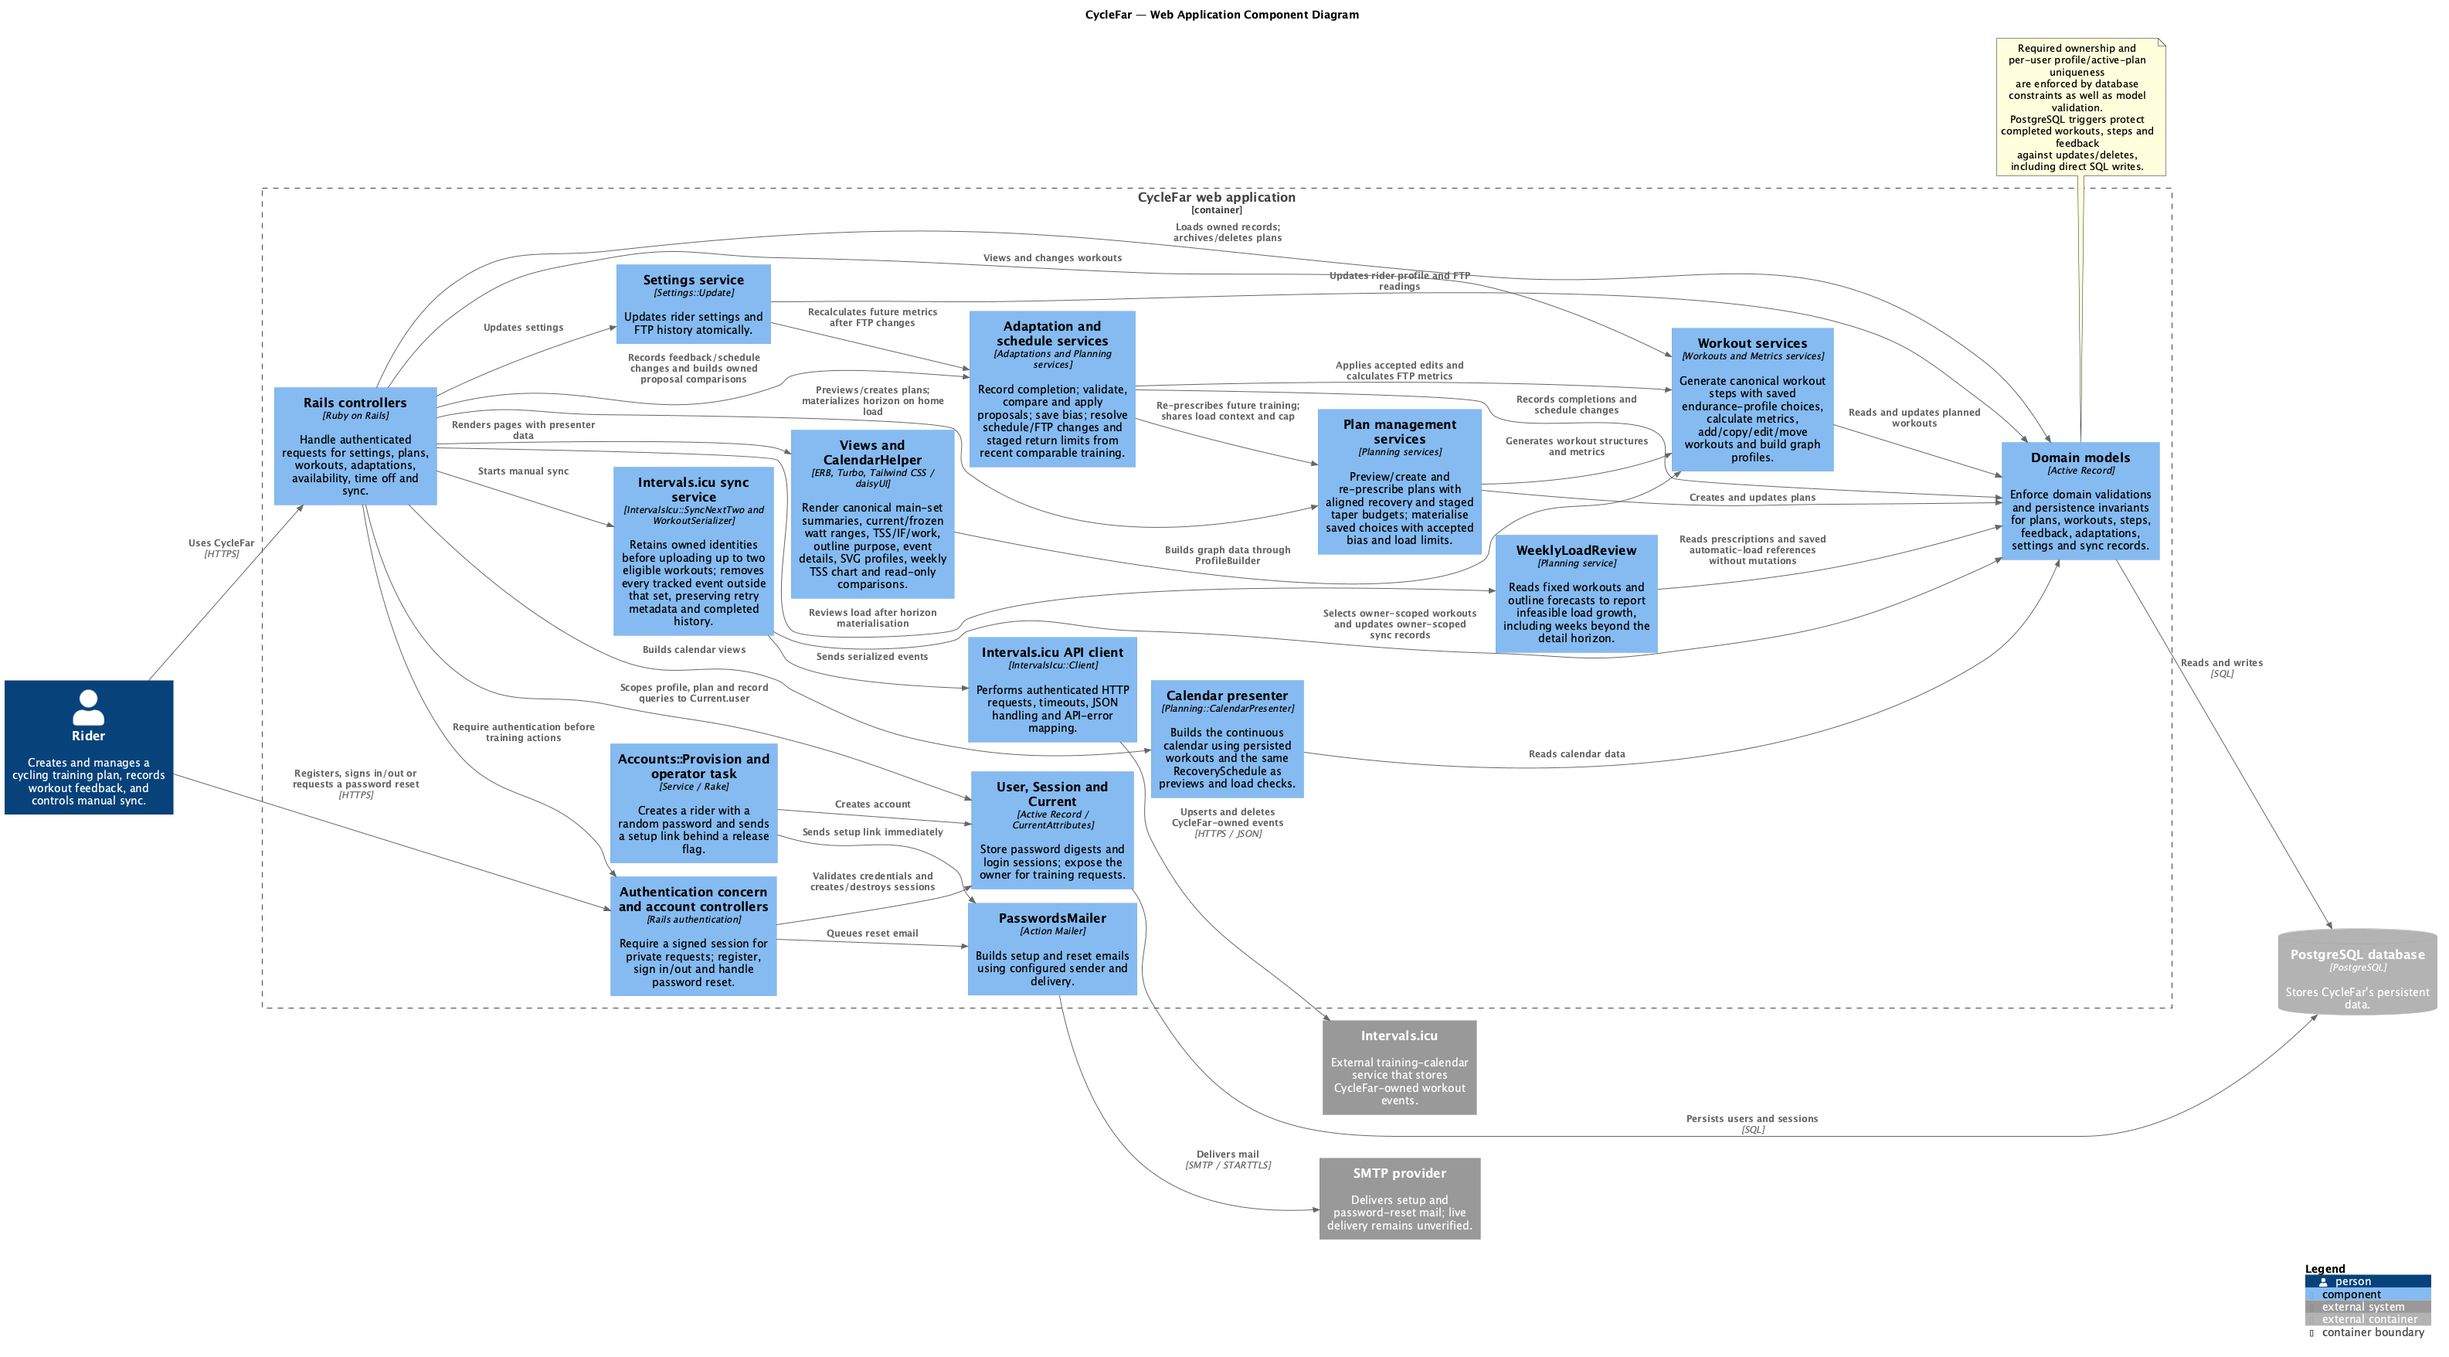
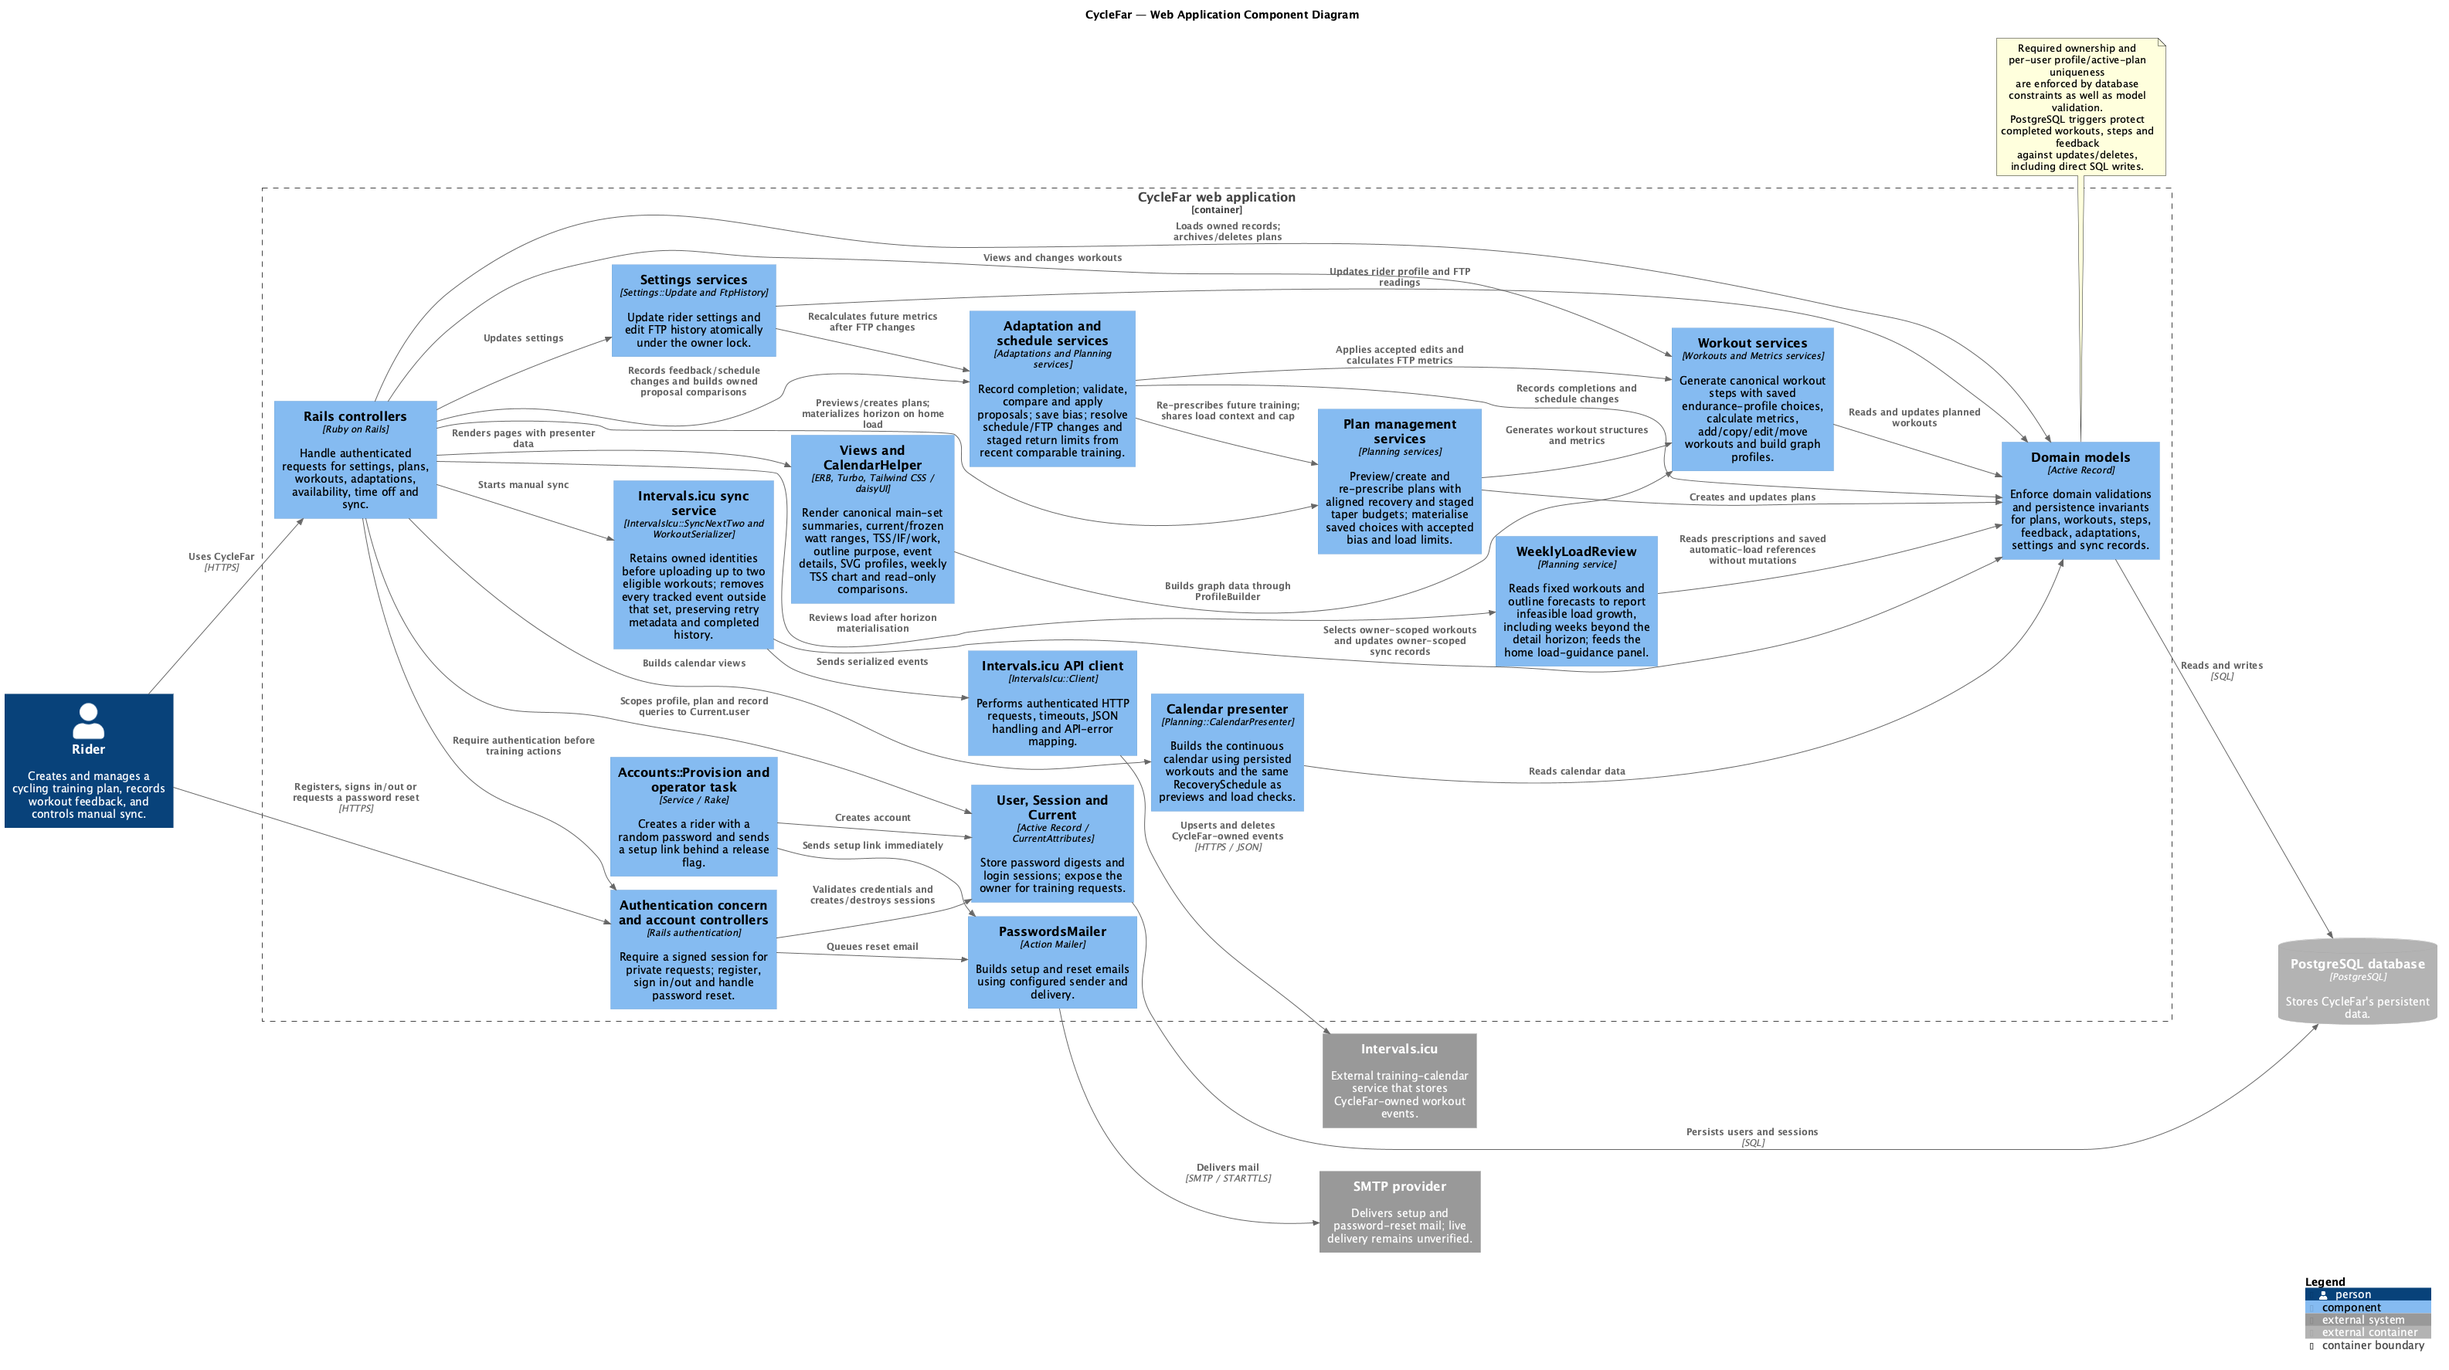
Document weekly load guidance and availability links
- Describe load warnings and prefilled availability forms
- Refresh architecture diagrams for FTP history and load guidance

diff --git a/docs/ARCHITECTURE.md b/docs/ARCHITECTURE.md
@@ -74,7 +74,7 @@ Forecast generation always passes an explicit variation. Initial endurance mater
 
 `Workouts::Mover` serves ordinary Move and missed-workout Move under the owning plan lock. Same-phase moves of at most seven days preserve canonical steps, variation and manual levels when recovery/return context remains compatible. A phase boundary, greater distance or changed recovery/return context regenerates at the destination's phase/date and accepted bias, preserving kind, subtype, intent and requested duration. `Planning::PhaseProgression` shares the phase-level calculation with PlanBuilder. Source generation ceilings are replaced with destination recovery/taper/post-break ceilings and fitted/load-limited references. Explicit moves retain subtype/duration during reduced-load periods while respecting their level ceilings; automatic schedule/time-off prescriptions still apply their usual subtype/duration overrides. Structured workouts remain structured outside the horizon; distant outlines keep forecasts only and retain an unbiased baseline for later materialisation. Move rejects non-planned sources, archived plans, occupied/out-of-plan/unphased destinations, time off and the target event date. Preserved structures refresh metrics with owner FTP; completed history and unrelated workouts remain unchanged.
 
-`Planning::WeeklyLoadReview` reads fixed canonical workouts and outline forecasts without mutating them, using `Planning::LoadContext` for comparable-week exclusions and saved automatic load references. Move reduces only its regenerated workout through `Planning::WeeklyLoadCap`, retaining subtype and duration, then returns a non-blocking destination warning if the cap remains infeasible. Short preserved moves are fixed rider choices and can exceed the cap with a warning. Calendar requests also review future weeks beyond the horizon, so distant move warnings survive a refresh.
+`Planning::WeeklyLoadReview` reads fixed canonical workouts and outline forecasts without mutating them, using `Planning::LoadContext` for comparable-week exclusions and saved automatic load references. Move reduces only its regenerated workout through `Planning::WeeklyLoadCap`, retaining subtype and duration, then returns a non-blocking destination warning if the cap remains infeasible. Short preserved moves are fixed rider choices and can exceed the cap with a warning. Calendar requests also review future weeks beyond the horizon, so distant move warnings survive a refresh. `weeks_above_target` returns the affected weeks (start date, projected TSS and limit) rather than text; `HomeController#index` passes them to the `home/_load_guidance` partial, a collapsible advisory panel. Each row links to the week's calendar anchor (`#calendar-week-<ISO date>`) and to the availability form for that week.
 
 ## Completion, adaptations and schedule changes
 
@@ -83,7 +83,7 @@ Forecast generation always passes an explicit variation. Initial endurance mater
 - `Adaptations::ProposalComparison` validates the full feedback source/target set through the owning plan, sorts targets by date, and calculates current/proposed prescriptions at that plan's FTP alongside the effective global bias transition. `FeedbackLoadLimiter` shares reduced-load ceilings and comparable-week rules through `Planning::LoadContext` with horizon generation and rechecks the weekly cap against fixed workouts and forecasts. Preview and acceptance use the same bounded prescriptions; acceptance rejects targets moved outside the current horizon. The calendar renders these comparisons read-only; invalid payloads show a generic unavailable message with Reject all and no Accept action. Material-change proposals keep their separate replan controls.
 - `Adaptations::ProposalApplier` locks the plan and then the proposal, validates through `ProposalComparison`, applies accepted changes through `ManualEditor`, saves the same clamped `intensity_bias` (-2..+2), and destroys the proposal in one transaction. Reject only destroys it. `ProposalCreator` captures versioned proposal-time context under the plan lock. `ProposalFreshness` enforces expiry (`Time.current >= expires_at`), active-plan status and a digest of the canonical source/targets, affected load weeks and their preceding comparable references, applicable availability, time off/return ramps, phases and progression state. Material replans additionally include their bounded block, target event and pre-break level inputs. All context queries use the proposal's plan; current FTP, derived metrics and timestamps are excluded, so metrics-only FTP recalculation remains valid. Payloads without a verifiable baseline are unavailable. Expired/stale/legacy proposals retain dismissal, but omit acceptance in both calendar and workout controls. Manual edits, moves, completion, missed resolution, Add/Copy and archive now share the plan lock with proposal acceptance, preventing concurrent canonical writes from racing validation (CYF-6). Comparison/apply equivalence assumes unchanged canonical inputs. Future horizon generation consumes the saved bias; per-family/subtype state in TRAINING_ENGINE.md §32 remains unimplemented. CYF-3, CYF-4 and CYF-5 delivered comparisons, bias consumption and bounded comparable-workout selection respectively.
 - `Planning::MissedWorkoutResolver` supports `leave_unchanged`, `move` and `replan`. Leave/replan retain a missed record; replan replaces upcoming planned training through `FuturePrescriber` in today through day 13, bounded by plan end. It currently uses the template effective today for the whole block; material-change and time-off replanning instead select the effective template per date.
-- `Planning::AvailabilityChanger` versions weekly templates and re-prescribes affected future dates. `ExistingPlanConfiguration` feeds the existing plan back through the preview engine.
+- `Planning::AvailabilityChanger` versions weekly templates and re-prescribes affected future dates. `ExistingPlanConfiguration` feeds the existing plan back through the preview engine. `AvailabilityChangesController#new` accepts an optional ISO `effective_from` date within the plan (default: today, clamped to the plan) and prefills the form through `Planning::AvailabilityForWeek`, which reads the configured slots effective for each day of that Monday–Sunday week (one-week overrides take precedence). It reads templates only, not recovery- or taper-adjusted workouts; an out-of-plan or invalid date redirects back with an alert.
 - `Planning::TimeOffPlanner` adds/removes time off and selects the applicable availability template for each future date, respecting one-week overrides and later schedule changes.
 - `Planning::FuturePrescriber` replaces future planned prescriptions under the plan lock, accounts for time off and return ramps, preserves completed/missed records and materialises the horizon. It retains the unbiased baseline separately from an effective post-break ceiling, avoiding feedback-bias stacking. Availability/time-off mutations and proposal acceptance acquire the plan lock before changing children.
 - `Planning::ReturnRamp` computes calendar stages, duration/power limits and progression from the reduced post-ramp level. `PreBreakProgression` selects the latest comparable planned/completed regular session instead of a historical maximum; proposal freshness uses the same calculation. `Workouts::TargetBandLimiter` constrains canonical main targets and caps every step endpoint while permitting easier preparation/recovery. Saved return limits survive profile sampling and horizon generation; return-stage explanations are retained (CYF-12).
@@ -105,6 +105,7 @@ resource :registration, only: [:new, :create]
 resources :passwords, param: :token
 root "home#index"
 resource :settings, only: [:show, :update]
+resources :ftp_readings, only: [:edit, :update, :destroy]
 resource :training_plan, only: [:new, :create, :destroy] do
   get :preview
   post :preview, action: :prepare_preview
@@ -116,7 +117,6 @@ resources :planned_workouts, only: [:new, :create, :show] do
     post :move
     post :copy
     post :complete
-    post :complete_test
     post :miss
   end
 end

diff --git a/docs/UX.md b/docs/UX.md
@@ -157,11 +157,11 @@ Include:
 - `Sync next 2 to Intervals.icu`;
 - `Change availability`;
 - `Add time off`;
-- destructive `Delete plan` in a secondary menu/action area.
+- destructive `Delete plan` in a secondary menu/action area; it is labelled `Archive plan` once the plan has completed workouts, which are retained.
 
 ### Weekly load chart
 
-A full-width TSS bar chart sits above the calendar, with one bar per week, including empty weeks. It uses the same totals as weekly summaries. Current totals include retained missed workouts. The calendar also displays a non-blocking warning when the ordered generated-load reductions cannot keep an upcoming comparable hard week within the 8% growth target while preserving fixed workouts and scheduled duration.
+A full-width TSS bar chart sits above the calendar, with one bar per week, including empty weeks. It uses the same totals as weekly summaries. Current totals include retained missed workouts. When the ordered generated-load reductions cannot keep an upcoming comparable hard week within the 8% growth target while preserving fixed workouts and scheduled duration, a non-blocking guidance panel appears above the calendar. It states how many weeks are above the target, explains that the warning is advisory, and suggests editing the week's availability or using Easier, Shorter or Change workout on an individual workout. A collapsed **Review affected weeks** table lists each week's projected and target TSS, with **Edit this week** (opens the availability form for that week) and **View in calendar** (jumps to the week) actions.
 
 ### Phase bands
 
@@ -311,7 +311,7 @@ Leave unchanged and Replan retain the source card as `Missed`; Move keeps it pla
 
 ## 11. Availability changes
 
-A form based on the same weekly grid as setup.
+A form based on the same weekly grid as setup. The grid is prefilled with the configured schedule for the week containing the chosen date (days with no slot are unchecked), so the rider adjusts minutes, intent or days rather than re-entering the week. The date defaults to today, clamped to the plan, and can be preselected from a load-guidance link; a date outside the plan returns to the form with an alert.
 
 Scope choice:
 

diff --git a/README.md b/README.md
@@ -23,7 +23,9 @@ snapshots.
   TSS/IF/work, event details, editable future workouts and inline power-profile
   graphs. Later outlines show their purpose; weekly totals feed a TSS chart.
 - Generated weekly load limits, aligned recovery weeks
-  and staged taper budgets that retain the target event and opener.
+  and staged taper budgets that retain the target event and opener. Weeks that
+  still exceed the growth target get an advisory panel linking to a prefilled
+  availability form for that week.
 - Completion feedback, overdue and missed-workout resolution, and explicit
   adaptation proposals with owner-scoped before/after comparisons and a
   14-day target window. Proposals enforce seven-day expiry and reject stale
@@ -215,8 +217,8 @@ worker; Kamal enables its supervisor inside Puma. See the
 Kamal supplies the running deployment version automatically. Pages display it
 in a small footer: Git commit SHAs are shortened to seven characters, with the
 full version available on hover. Custom versions and uncommitted-build markers
-are shown in full. The footer is hidden when `KAMAL_VERSION` is absent, including
-normal local development.
+are shown in full, beside a link to the GitHub project. The footer is hidden when
+`KAMAL_VERSION` is absent, including normal local development.
 
 ## Validation
 

diff --git a/docs/diagrams/README.md b/docs/diagrams/README.md
@@ -79,4 +79,4 @@ PlantUML resolves this relative output directory beside each source, producing `
 
 When updating a view, compare it with the named controllers/services, routes and persistence schema. Check relationship endpoints, render the sources and inspect the resulting images. Keep implementation limits in diagram notes and this guide aligned with [ARCHITECTURE.md](../ARCHITECTURE.md), especially after proposal, move, completion or horizon changes.
 
-Validation on 2026-10-06 ran `generate-pngs.sh` with PlantUML 1.2026.8 and the built-in Smetana layout engine. All eleven sources passed the script's pre-render checks and were exported to PNG. The exports were visually reviewed, source/PNG links were checked, and the PNG chunks were checked for the absence of embedded PlantUML source metadata.
+Validation on 2026-10-06 ran `generate-pngs.sh` with PlantUML 1.2026.8 and the built-in Smetana layout engine. All eleven sources passed the script's pre-render checks and were exported to PNG. The exports were visually reviewed, source/PNG links were checked, and the PNG chunks were checked for the absence of embedded PlantUML source metadata. The application and plan-change component views were later re-rendered individually to cover editable FTP history and the load-guidance panel.

diff --git a/docs/REQUIREMENTS.md b/docs/REQUIREMENTS.md
@@ -402,6 +402,8 @@ After plan creation, weekly availability can be changed:
 
 The app replans affected future prescriptions around the revised template. Past and completed workouts are not changed.
 
+The change form is prefilled with the configured schedule for the chosen week, and may be opened for a specific date within the plan (for example from a load warning).
+
 ## 11. Time off
 
 ### OFF-001 Planned time off
@@ -447,6 +449,8 @@ The calendar may omit NP, but the metrics service may retain it internally.
 The engine controls the rate of planned TSS increase between comparable hard weeks using a fixed V1 default; the rider does not choose conservative/standard/aggressive modes.
 
 Recovery and taper weeks are deliberate load reductions and should not be treated as the baseline for the subsequent hard-week increase cap.
+
+When a week still exceeds the cap after the ordered reductions, show a non-blocking warning that identifies the affected weeks and their projected and target TSS, and links to edit that week's availability or view it in the calendar. The rider may keep the schedule.
 
 ## 14. Intervals.icu
 
